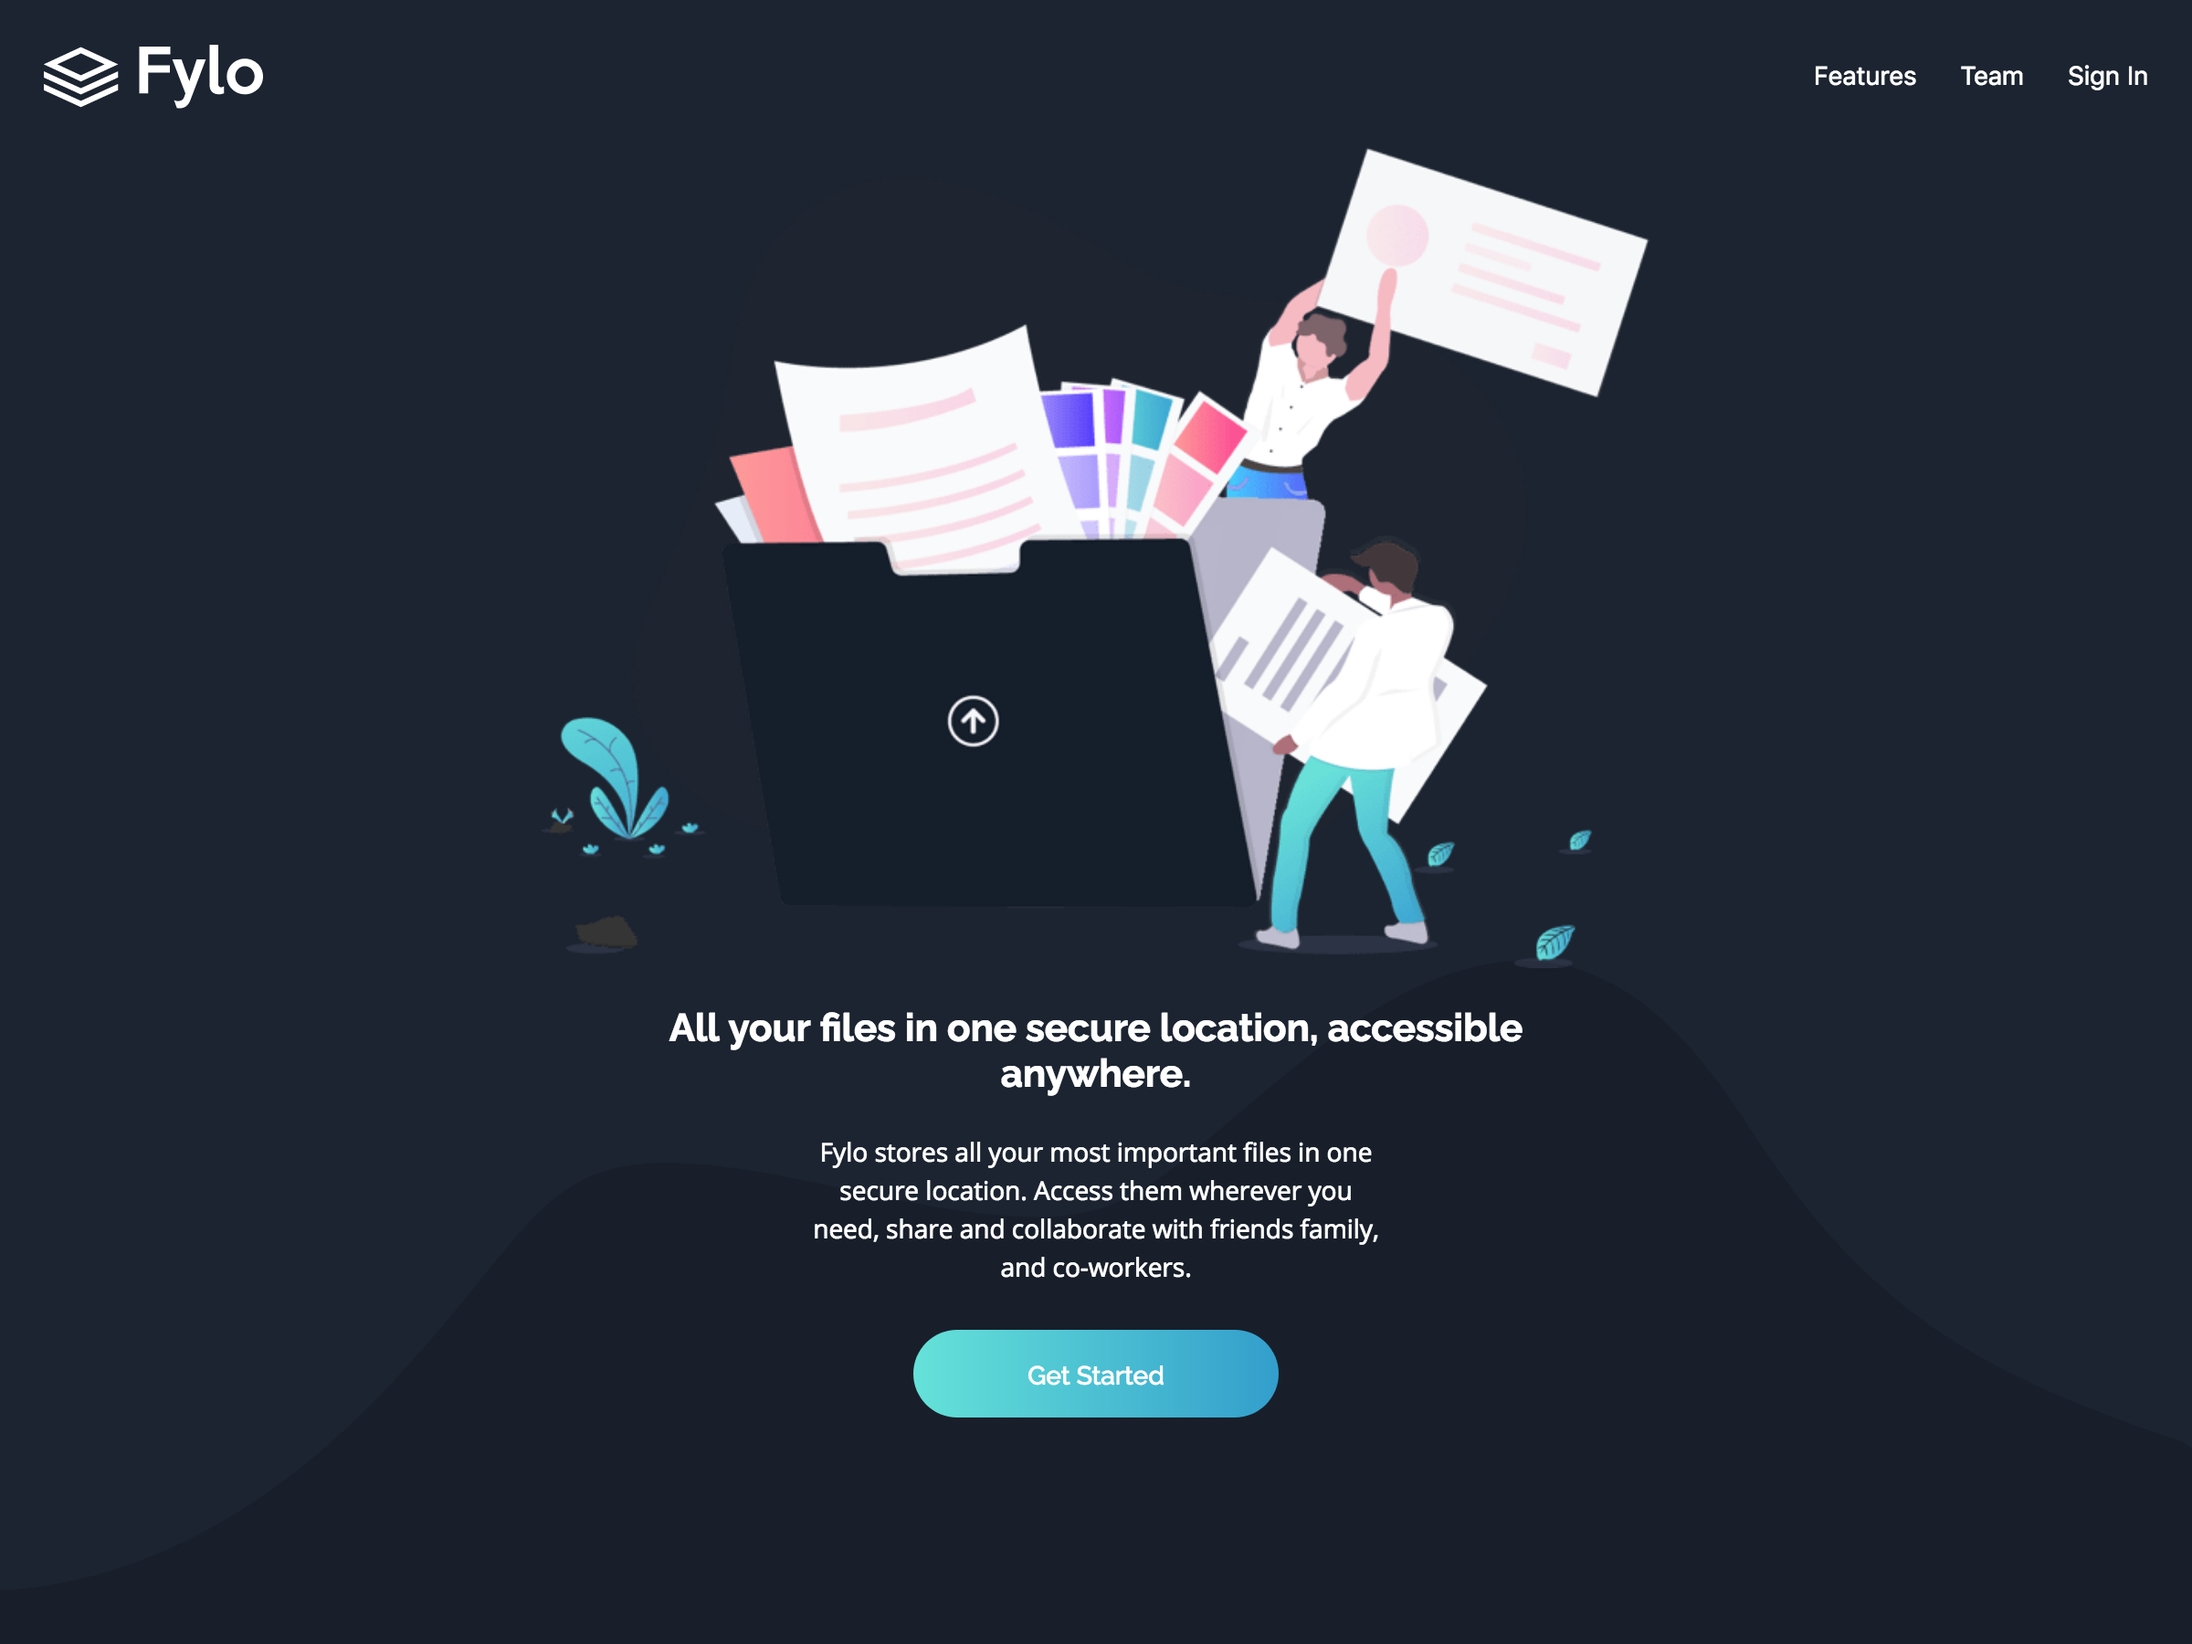
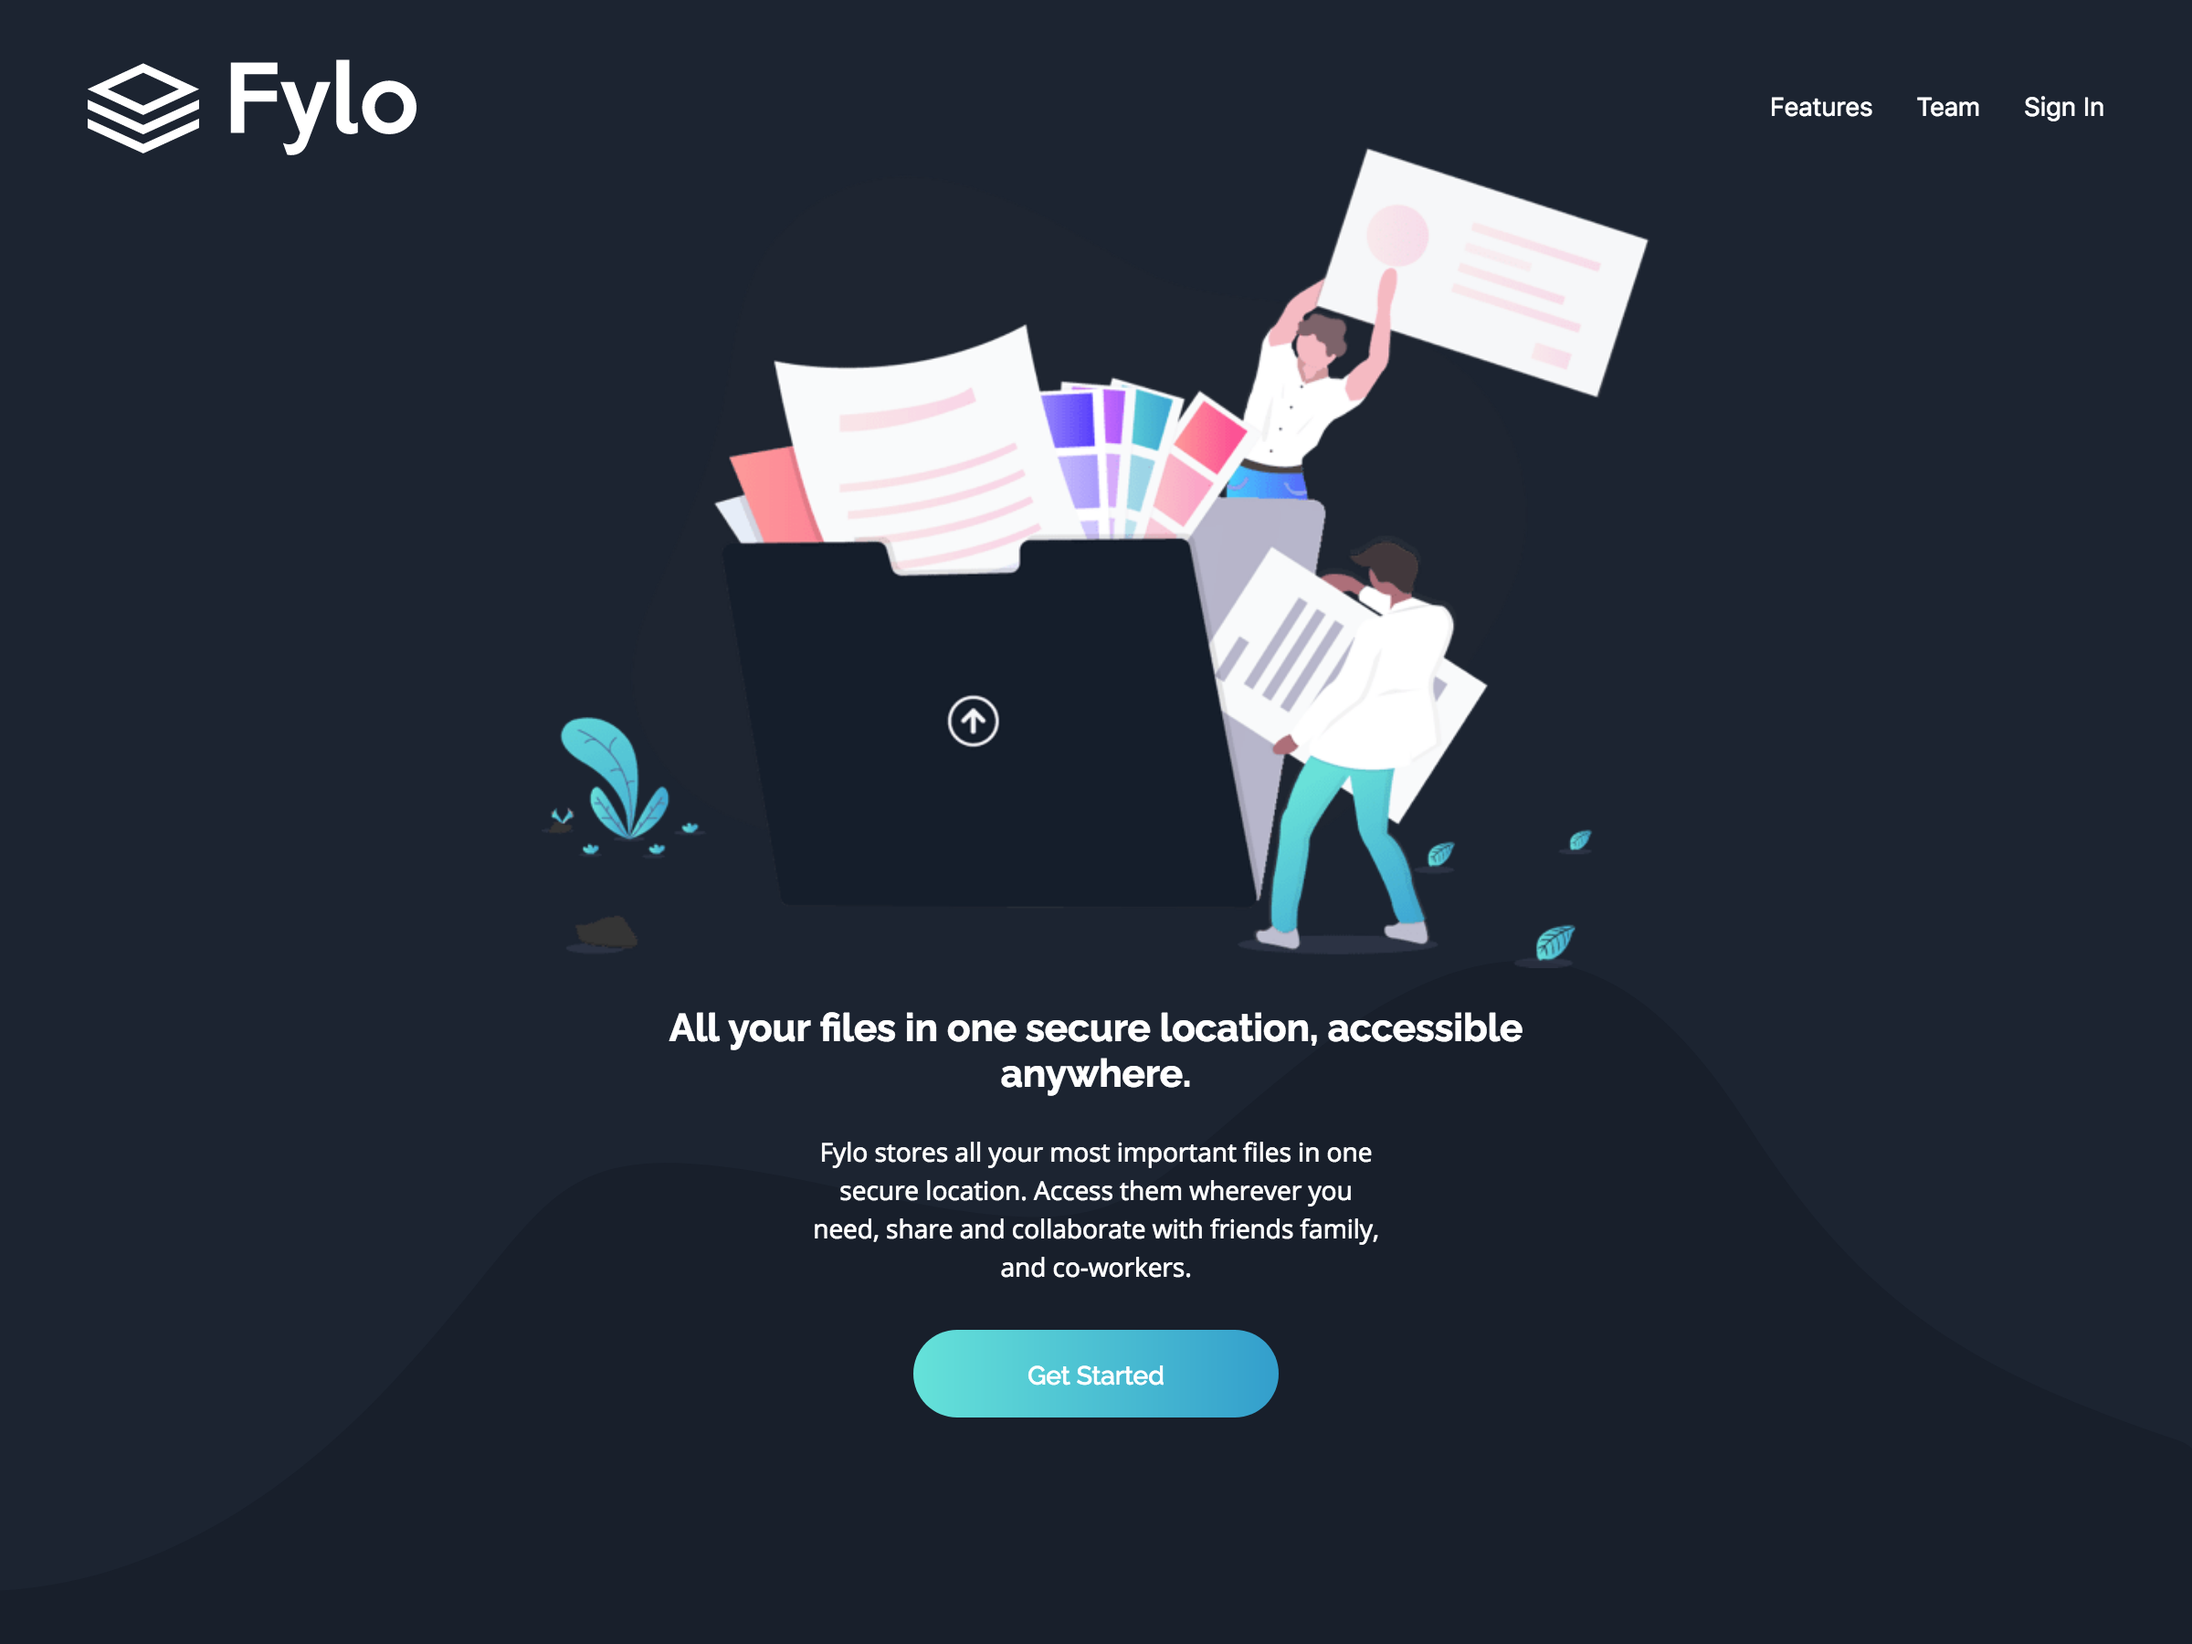
small fix

diff --git a/pages/_document.js b/pages/_document.js
@@ -1,9 +1,35 @@
 import Document, { Html, Head, Main, NextScript } from 'next/document'
+import { ServerStyleSheet } from 'styled-components'
 
 class MyDocument extends Document {
-  static async getInitialProps(ctx) {
+  /* static async getInitialProps(ctx) {
     const initialProps = await Document.getInitialProps(ctx)
     return { ...initialProps }
+  } */
+  static async getInitialProps(ctx) {
+    const sheet = new ServerStyleSheet()
+    const originalRenderPage = ctx.renderPage
+
+    try {
+      ctx.renderPage = () =>
+        originalRenderPage({
+          enhanceApp: (App) => (props) =>
+            sheet.collectStyles(<App {...props} />),
+        })
+
+      const initialProps = await Document.getInitialProps(ctx)
+      return {
+        ...initialProps,
+        styles: (
+          <>
+            {initialProps.styles}
+            {sheet.getStyleElement()}
+          </>
+        ),
+      }
+    } finally {
+      sheet.seal()
+    }
   }
 
   render() {

diff --git a/components/Fylo/styled.js b/components/Fylo/styled.js
@@ -1,5 +1,5 @@
 import styled, { css } from 'styled-components'
-import { device } from './devices'
+import { devices } from '../../styles/devices'
 import { colors } from './variables'
 
 export const Page = styled.div`
@@ -27,13 +27,21 @@ export const Header = styled.header`
   flex-direction: row;
   align-items: center;
   justify-content: space-between;
-  padding: 24px;
+  padding: 24px 32px;
   z-index: 1;
+
+  @media screen and ${devices.tablet} {
+    padding: 32px 48px;
+  }
 `
 export const Logo = styled.div`
   display: grid;
   place-items: center;
   width: 120px;
+
+  @media screen and ${devices.tablet} {
+    width: 180px;
+  }
 `
 
 export const Nav = styled.nav`

diff --git a/components/Fylo/sections/Footer.js b/components/Fylo/sections/Footer.js
@@ -1,7 +1,7 @@
 import styled from 'styled-components'
-import { devices } from '../devices'
+import { devices } from '../../../styles/devices'
 import { colors } from '../variables'
-import { Section, SectionContent } from '../styled'
+import { SectionContent } from '../styled'
 import LogoSVG from '../../../public/fylo/logo-react.svg'
 import IconLocation from '../../../public/fylo/icon-location.svg'
 import IconPhone from '../../../public/fylo/icon-phone.svg'

diff --git a/components/Fylo/sections/Features.js b/components/Fylo/sections/Features.js
@@ -1,5 +1,5 @@
 import styled from 'styled-components'
-import { devices } from '../devices'
+import { devices } from '../../../styles/devices'
 import { colors } from '../variables'
 import { Section, SVGWrap, SectionContent } from '../styled'
 import AccessSVG from '../../../public/fylo/icon-access-anywhere.svg'

diff --git a/components/Fylo/sections/Subscribe.js b/components/Fylo/sections/Subscribe.js
@@ -1,6 +1,6 @@
 import { useState, useEffect } from 'react'
 import styled from 'styled-components'
-import { devices } from '../devices'
+import { devices } from '../../../styles/devices'
 import { colors } from '../variables'
 import { SectionContent, Button, Section } from '../styled'
 

diff --git a/components/Fylo/sections/Hero.js b/components/Fylo/sections/Hero.js
@@ -1,5 +1,5 @@
 import styled from 'styled-components'
-import { devices } from '../devices'
+import { devices } from '../../../styles/devices'
 import { colors } from '../variables'
 import { Section, Button, SectionContent } from '../styled'
 

diff --git a/components/Fylo/sections/Productive.js b/components/Fylo/sections/Productive.js
@@ -1,5 +1,5 @@
 import styled from 'styled-components'
-import { devices } from '../devices'
+import { devices } from '../../../styles/devices'
 import { colors } from '../variables'
 import { Section, SectionContent } from '../styled'
 

diff --git a/components/Fylo/sections/Testimonials.js b/components/Fylo/sections/Testimonials.js
@@ -1,5 +1,5 @@
 import styled from 'styled-components'
-import { devices } from '../devices'
+import { devices } from '../../../styles/devices'
 import { colors } from '../variables'
 import { Section, SectionContent } from '../styled'
 

diff --git a/styles/Home.module.scss b/styles/Home.module.scss
@@ -1,4 +1,4 @@
-.main {
+/* .main {
   //height: 100%;
 
   flex-grow: 1;
@@ -58,3 +58,4 @@
   font-family: Menlo, Monaco, Lucida Console, Liberation Mono, DejaVu Sans Mono,
     Bitstream Vera Sans Mono, Courier New, monospace;
 }
+ */

diff --git a/pages/chat-app.js b/pages/chat-app.js
@@ -1,4 +1,4 @@
-import ChatApp from '../components/DayOneChatApp/ChatApp'
+import ChatApp from '../components/ChatApp/ChatApp'
 
 export default function ChatAppPage() {
  return <ChatApp />

diff --git a/pages/day-01-chat-app.js b/pages/day-01-chat-app.js
@@ -1,4 +1,4 @@
-import ChatApp from '../components/DayOneChatApp/ChatApp'
+import ChatApp from '../components/ChatApp/ChatApp'
 
 export default function DayOne() {
  return <ChatApp />
